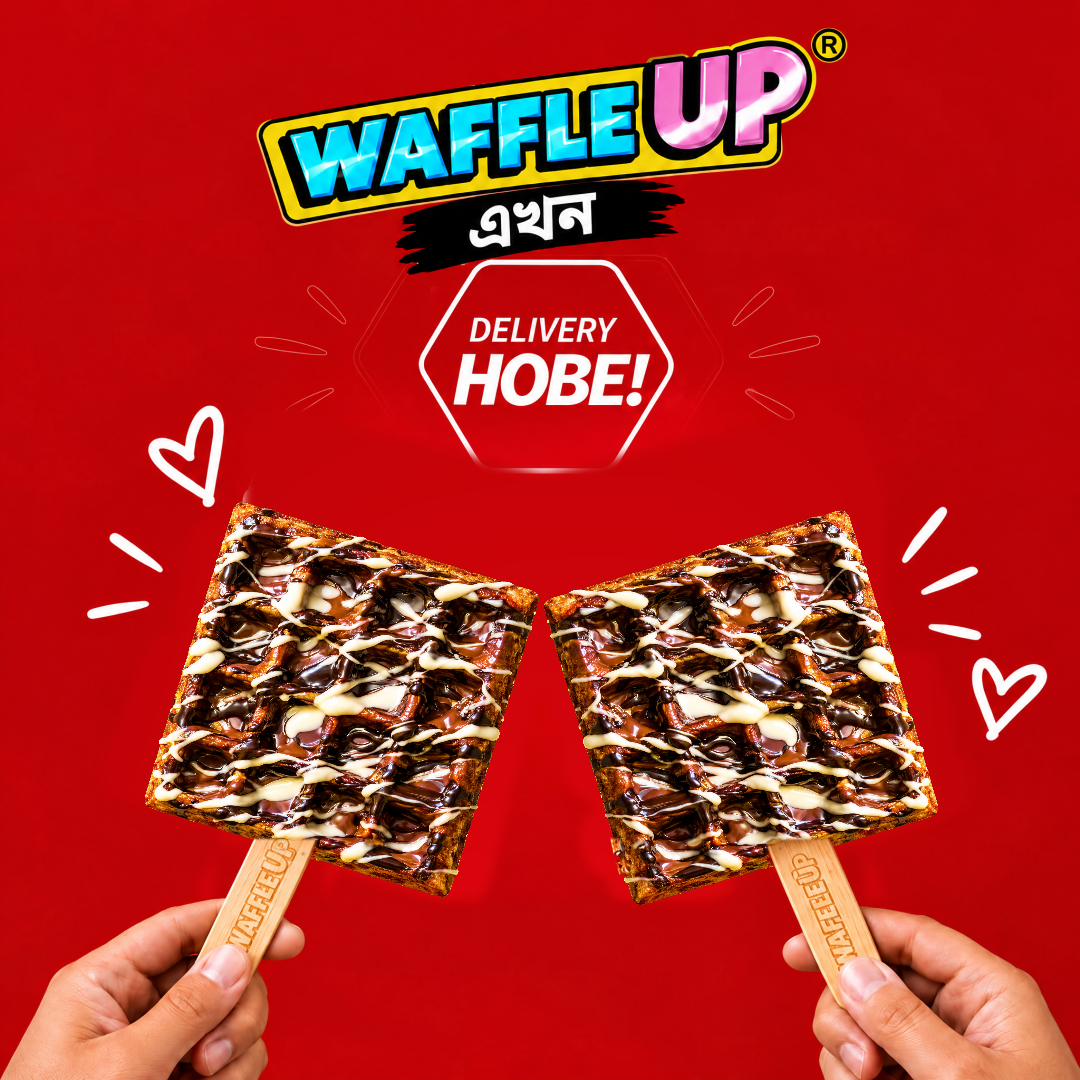
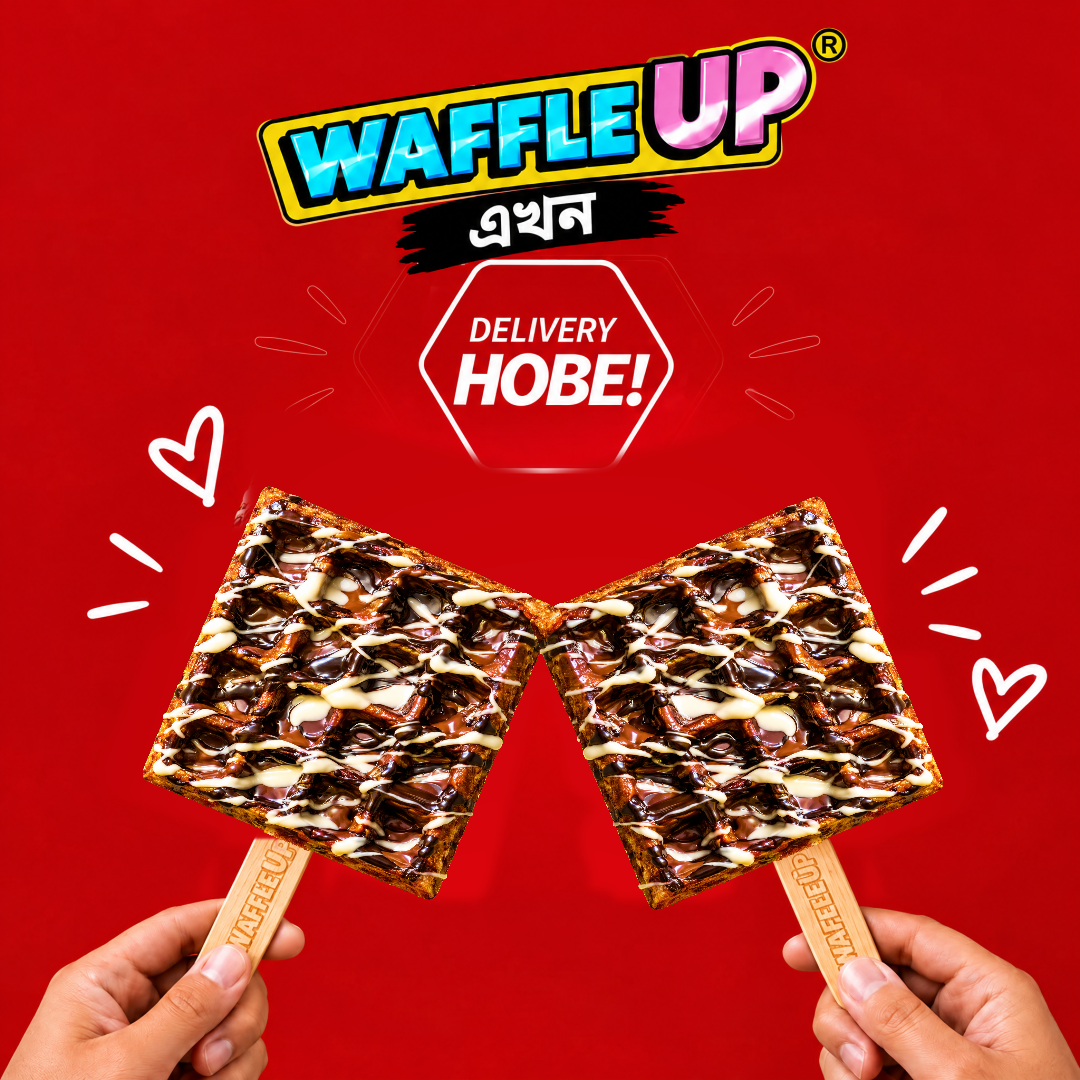
Delivery Hobe red post: re-seat waffles on sticks (centred, perpendicular, waffle in front)
Claude-Session: https://claude.ai/code/session_01U7weMqdwCEipcvhaUdmSxD

Changed region(s): [[0.1222, 0.4278, 0.8861, 0.8556]]

diff --git a/campaigns/2026-10-delivery-hobe/build_red_tri.py b/campaigns/2026-10-delivery-hobe/build_red_tri.py
@@ -33,6 +33,7 @@ fill=np.maximum(fill,pl)
 er=cv2.dilate(fill,cv2.getStructuringElement(cv2.MORPH_ELLIPSE,(61,61)))>0
 for x0,y0,x1,y1 in prot: er[y0:y1,x0:x1]=False
 er[845:900,215:325]=False; er[845:900,735:865]=False
+er[820:890,590:660]=True
 er[900:,:]=False
 a=cv2.GaussianBlur(er.astype('float32'),(0,0),5)[...,None]
 out=base*(1-a)+bg*a
@@ -40,7 +41,9 @@ out=base*(1-a)+bg*a
 cut=cv2.imread(S+'tri.png',cv2.IMREAD_UNCHANGED)     # Higgsfield tri-chocolate waffle, chroma-keyed, squared 1:1
 cx,bot,bw=eval(open(S+'tri_anchor.txt').read())
 cut=cut[:int(bot)+6]; ANCHOR=(cx,bot-14); LEAN=0.
+WA=np.zeros((H,W),np.float32)
 def place(out,target,lean_t,scale,mirror):
+    global WA
     c=cut[:,::-1].copy() if mirror else cut
     ax=(c.shape[1]-ANCHOR[0]) if mirror else ANCHOR[0]
     ang=(lean_t-LEAN) if mirror else -(lean_t-LEAN)      # cv2: +ccw
@@ -48,6 +51,7 @@ def place(out,target,lean_t,scale,mirror):
     M[0,2]+=target[0]-ax; M[1,2]+=target[1]-ANCHOR[1]
     w=cv2.warpAffine(c,M,(W,H),flags=cv2.INTER_LANCZOS4,borderValue=(0,0,0,0))
     rgb=cv2.cvtColor(w[:,:,:3],cv2.COLOR_BGR2RGB).astype(float); al=(w[:,:,3:]/255.)
+    WA=np.maximum(WA,al[:,:,0].astype(np.float32))
     return out*(1-al)+rgb*al
 p=eval(open(S+'params.txt').read())
 out=place(out,p['L'][0],p['L'][2],p['L'][1],False)
@@ -58,5 +62,7 @@ keep=tan&(yy>=840); keep=cv2.dilate(keep.astype('uint8'),np.ones((3,3),np.uint8)
 keep=cv2.morphologyEx(keep,cv2.MORPH_OPEN,np.ones((5,5),np.uint8)).astype('float32')
 keep=cv2.GaussianBlur(keep,(0,0),1.2)[...,None]
 # only hands + old stick tops come back from the generated post; red field stays modelled
+keep[:, :]=keep; keep[820:890,590:660]=0
+keep=keep*(1-WA[...,None])
 out=out*(1-keep)+base*keep
 cv2.imwrite(S+'red_tri.png',cv2.cvtColor(np.clip(out,0,255).astype('uint8'),cv2.COLOR_RGB2BGR))
